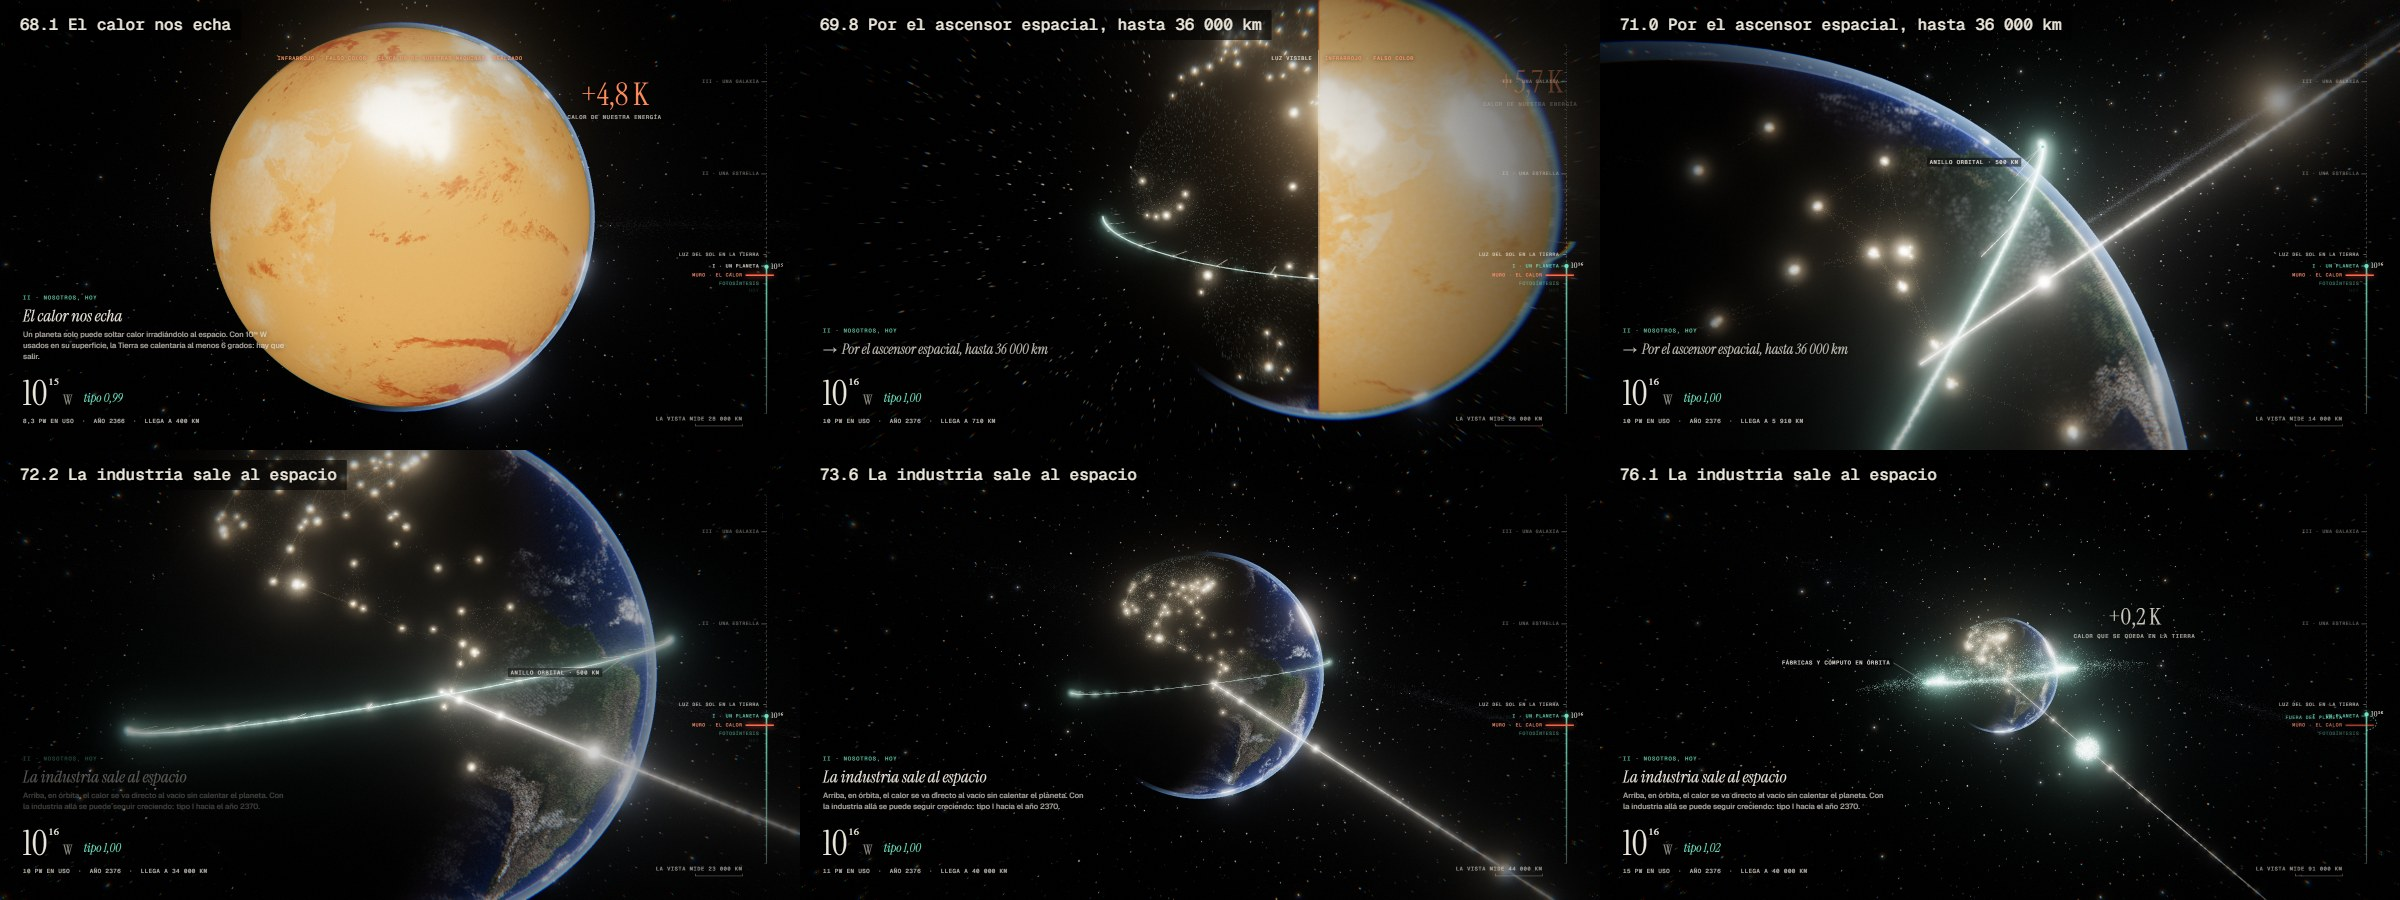
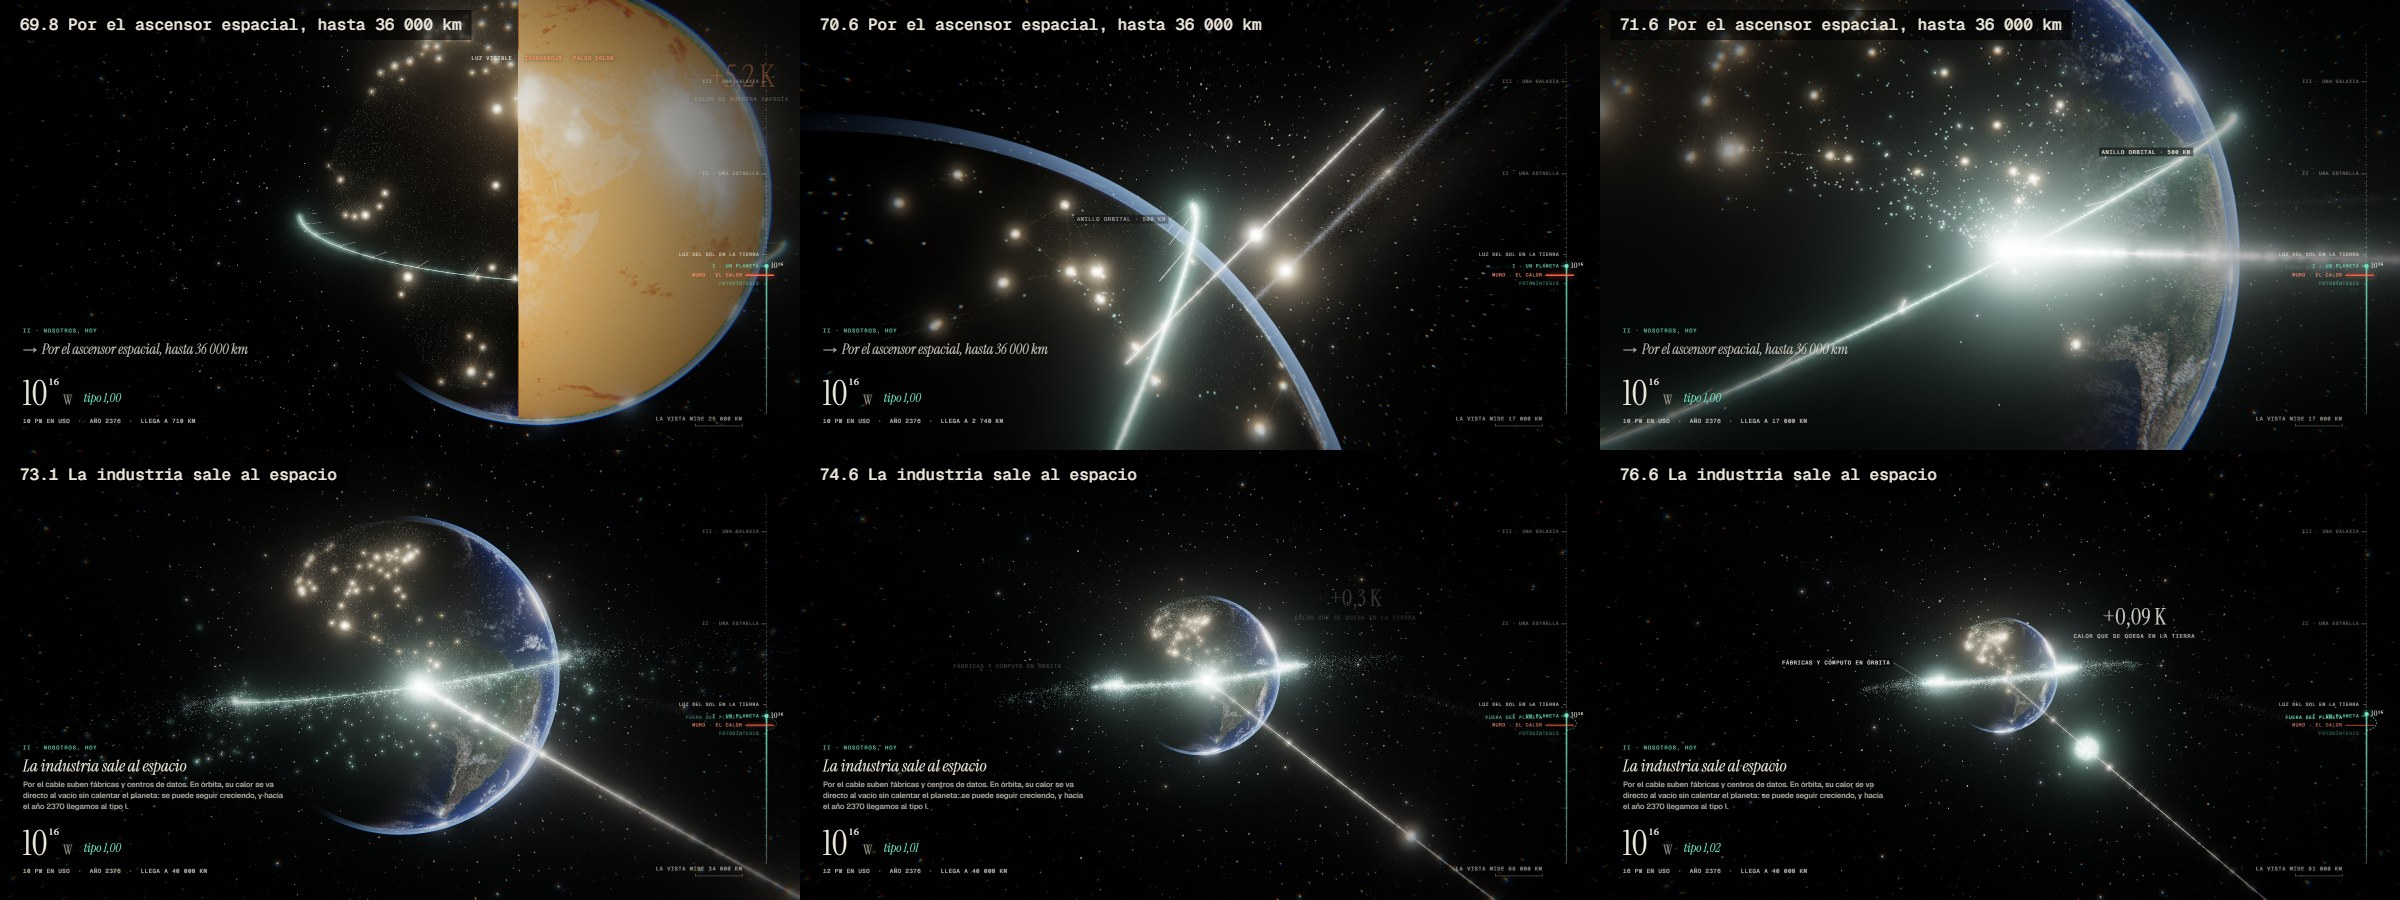
feat(act-2): the factories and data centres climb the elevator to their place in orbit

diff --git a/src/mundo/calor.ts b/src/mundo/calor.ts
@@ -145,14 +145,17 @@ export function infrarrojo() {
 }
 
 /**
- * The industry that leaves: points that start where the energy is used (around the cities) and rise
- * to orbit (a band around the orbital ring), where they keep circling. In infrared they glow with
- * the heat their radiators give to space.
+ * The industry that leaves: factories and data centres, from where the energy is used (around the
+ * cities), gather at the space elevator's foot, climb its cable to their height and drift along
+ * the orbit to their place in a band around the orbital ring, where they keep circling. In infrared
+ * they glow with the heat their radiators give to space. `asc`: the elevator's direction (body frame).
  */
-export function industria() {
+export function industria(asc: THREE.Vector3) {
   const b = materiaBuilder(97);
   const total = CIUDADES.reduce((s, c) => s + c[2], 0);
   const teal = new THREE.Color(0.55, 1.0, 0.86);
+  // The data centres: a cooler white.
+  const datos = new THREE.Color(0.85, 0.93, 1.0);
   const N = 14000;
   for (let i = 0; i < N; i++) {
     // A city, by its size.
@@ -170,25 +173,40 @@ export function industria() {
     const R = b.r() < 0.8 ? 1.07 + Math.pow(b.r(), 1.6) * 0.32 : 1.4 + b.r() * 1.1;
     const a = b.r() * Math.PI * 2;
     const inc = gauss(b.r) * 0.05;
-    b.push(Math.cos(a) * R, Math.sin(a) * R * inc, -Math.sin(a) * R, teal, 0.0035, b.r() < 0.06 ? 3 : 1.1, { from: [fx, fy, fz], delay: b.r() });
+    b.push(Math.cos(a) * R, Math.sin(a) * R * inc, -Math.sin(a) * R, b.r() < 0.4 ? datos : teal, 0.0035, b.r() < 0.06 ? 3 : 1.1, { from: [fx, fy, fz], delay: b.r() });
   }
   const n = materia(b.data(), {
-    pre: /* glsl */ `uniform vec3 uCamL; uniform float uSpin, uIR, uWipe;
+    pre: /* glsl */ `uniform vec3 uCamL, uAsc; uniform float uSpin, uIR, uWipe;
+      vec3 slerpU(vec3 a, vec3 b, float t) {
+        float c = clamp(dot(a, b), -1.0, 1.0);
+        float w = acos(c);
+        if (w < 1e-4) return a;
+        return (a * sin((1.0 - t) * w) + b * sin(t * w)) / sin(w);
+      }
       bool tapado(vec3 q, vec3 c) { vec3 d = q - c; float t = clamp(-dot(c, d) / dot(d, d), 0.0, 1.0); return t < 0.995 && length(c + d * t) < 0.996; }`,
     move: /* glsl */ `
+      // To the elevator's foot over the ground, up its cable to its height, then along the orbit to its place.
       float rr = max(length(position), 1.0);
-      float ang = uSpin * k / (rr * sqrt(rr));
+      if (k < 0.25) p = slerpU(normalize(aFrom), uAsc, smoothstep(0.0, 1.0, k / 0.25)) * 1.004;
+      else if (k < 0.6) p = uAsc * mix(1.004, rr, smoothstep(0.0, 1.0, (k - 0.25) / 0.35));
+      else {
+        float t = smoothstep(0.0, 1.0, (k - 0.6) / 0.4);
+        p = slerpU(uAsc, normalize(position), t) * rr;
+      }
+      float ang = uSpin * smoothstep(0.6, 1.0, k) / (rr * sqrt(rr));
       float ca = cos(ang), sa = sin(ang);
       p = vec3(ca * p.x + sa * p.z, p.y, -sa * p.x + ca * p.z);
       // Rising: a spark; parked in orbit: a steady light.
       float rising = k * (1.0 - k) * 4.0;
-      em *= (0.25 + 0.75 * k) * (1.0 + 2.5 * rising);
+      em *= (0.25 + 0.75 * k) * (1.0 + 1.5 * rising);
+      // Gathering at the foot they pile up: dimmer there, so the foot is a light, not a blaze.
+      em *= mix(0.3, 1.0, smoothstep(0.3, 0.45, k));
       em *= step(0.002, k);
       fuente = 1.0;
       if (tapado(p, uCamL)) { em *= 0.0; }`,
     post: /* glsl */ `
       if (uIR > 0.5 && gl_Position.x / gl_Position.w > uWipe) { em = vec3(1.0, 0.45, 0.14) * 2.6 * step(0.002, k) * (0.3 + 0.7 * k); sz *= 1.6; }`,
-    uniforms: { uCamL: { value: V() }, uSpin: { value: 0 }, uIR: { value: 0 }, uWipe: { value: 2 } },
+    uniforms: { uCamL: { value: V() }, uAsc: { value: asc.clone().normalize() }, uSpin: { value: 0 }, uIR: { value: 0 }, uWipe: { value: 2 } },
   });
   n.u.uSpread.value = 1.6;
   n.u.uK.value = 0;

diff --git a/src/actos/hoy.ts b/src/actos/hoy.ts
@@ -6,7 +6,7 @@ import { flecha, linea, texto } from '../engine/lamina';
 import { mezcla, type Vista } from '../engine/vista';
 import { calentamiento, grados, industria, infrarrojo } from '../mundo/calor';
 import { E, deriva, noche, type Mundo } from '../mundo/mundo';
-import { GEO, R_E } from '../mundo/obras';
+import { GEO, R_E, ascensorDir } from '../mundo/obras';
 import type { Acto, Cuadro } from './tipos';
 
 /**
@@ -44,7 +44,7 @@ export function hoy(): Acto {
   const ease = smoothstep;
   let m: Mundo;
   const ir = infrarrojo();
-  const ind = industria();
+  const ind = industria(ascensorDir());
   let giroAsc = 0;
   let giroDelta = 0;
 
@@ -95,9 +95,10 @@ export function hoy(): Acto {
       tl.label('a2.muro').with(1.3, { 'a2.wipe': -1.25 }).to(2.8, { 'a2.lp': 16.0, 'a2.ly': 2.54 });
       // The elevator is the way up, not a moment of its own: the ride is a journey, and the moment
       // begins at the top, where the point is (the heat goes to the void). Its physics is on the plate.
-      tl.caption(6.4, 'La industria sale al espacio', 'Arriba, en órbita, el calor se va directo al vacío sin calentar el planeta. Con la industria allá se puede seguir creciendo: tipo I hacia el año 2370.', { desde: 2.2, viaje: 'Por el ascensor espacial, hasta 36 000 km' });
-      tl.label('a2.asc').with(1.0, { 'a2.wipe': 1.25 }).with(1.6, { 'a2.giro': 1 }).to(2.6, { 'a2.lr': 7.6 });
-      tl.label('a2.sale').to(3.8, { 'a2.sube': 1, 'a2.lp': 16.25, 'a2.ly': 2.54 });
+      tl.caption(6.4, 'La industria sale al espacio', 'Por el cable suben fábricas y centros de datos. En órbita, su calor se va directo al vacío sin calentar el planeta: se puede seguir creciendo, y hacia el año 2370 llegamos al tipo I.', { desde: 2.2, viaje: 'Por el ascensor espacial, hasta 36 000 km' });
+      // The industry starts climbing as we do: we ride up beside it.
+      tl.label('a2.asc').with(1.0, { 'a2.wipe': 1.25 }).with(1.6, { 'a2.giro': 1 }).with(6.4, { 'a2.sube': 1 }).to(2.6, { 'a2.lr': 7.6 });
+      tl.label('a2.sale').to(3.8, { 'a2.lp': 16.25, 'a2.ly': 2.54 });
       tl.label('a2.fin');
     },
     montar(mundo) {

diff --git a/src/i18n.ts b/src/i18n.ts
@@ -360,7 +360,7 @@ const EN: Record<string, string> = {
   'Hacia una estrella muerta': 'Towards a dead star',
   'Hacia una sola estrella': 'Towards a single star',
   'Billones de años después': 'Trillions of years later',
-  'Arriba, en órbita, el calor se va directo al vacío sin calentar el planeta. Con la industria allá se puede seguir creciendo: tipo I hacia el año 2370.': 'Up in orbit, the heat goes straight into the void without warming the planet. With industry up there we can keep growing: type I around the year 2370.',
+  'Por el cable suben fábricas y centros de datos. En órbita, su calor se va directo al vacío sin calentar el planeta: se puede seguir creciendo, y hacia el año 2370 llegamos al tipo I.': 'Factories and data centres climb the cable. In orbit their heat goes straight into the void without warming the planet: we can keep growing, and around the year 2370 we reach type I.',
   'Por el ascensor espacial, hasta 36 000 km': 'Up the space elevator, to 36,000 km',
   'un cable así necesita un material el doble de fuerte que el mejor de hoy': 'a cable like this needs a material twice as strong as the best we have',
 };

diff --git a/ESTADO.md b/ESTADO.md
@@ -68,7 +68,7 @@
 ## Pulido general (27 de octubre, a pedido de Diego)
 - **Textos:** los 53 momentos reescritos en lenguaje llano y encadenados (cada uno parte de lo que dejó el anterior: «Pero…», «Y…», «Entonces…»). Las citas salieron del texto y van como fuente, visible solo con la lámina (`tl.caption(…, { fuente })`). Inglés al día.
 - **Interfaz:** cada rótulo lleva encima su capítulo («III · El sistema solar trabaja»), aparece y se va con un fundido, y crece hacia arriba sin tocar el reloj. Mientras la cámara viaja hacia el tema de un momento, se ve solo «→ Hacia Marte» (`{ desde, viaje }`); el rótulo del momento llega con su tema. La línea del reloj dice qué cuenta («19 TW en uso · 2026 · llega a 400 km»). Abajo a la derecha, «la vista mide 21 000 km» donde el mundo está a escala (`Acto.regla`).
-- **El ascensor espacial ya no es un momento propio:** es el viaje («→ Por el ascensor espacial, hasta 36 000 km») hacia «La industria sale al espacio», que empieza arriba, donde está la idea (el calor se va al vacío). Su física (las fuerzas sobre el cable, el material que falta) queda en la lámina. Decidido el 27 de octubre: como momento aparte parecía un paso necesario del argumento, y no lo es (la industria en órbita se haría sobre todo con material de la Luna y los asteroides).
+- **El ascensor espacial ya no es un momento propio:** es el viaje («→ Por el ascensor espacial, hasta 36 000 km») hacia «La industria sale al espacio», que empieza arriba, donde está la idea (el calor se va al vacío). Su física (las fuerzas sobre el cable, el material que falta) queda en la lámina. Para que se vea para qué sirve, la industria (fábricas y centros de datos) se junta al pie del ascensor, trepa por el cable junto a la cámara y se reparte por la órbita hasta formar la banda. Decidido el 27 de octubre: como momento aparte parecía un paso necesario del argumento, y no lo es (la industria en órbita se haría sobre todo con material de la Luna y los asteroides).
 - **Visual:** la Tierra en infrarrojo como la ven los satélites (nubes frías, desiertos tibios) con la paleta del Sol; la materia de Penrose se enrojece y apaga cerca del horizonte; el vecindario de estrellas no se apaga al alejarse; el zoológico y los que callan, más visibles; el borde de la vela brilla.
 
 ## Pendiente del viaje completo (fase 5 y pulido)
